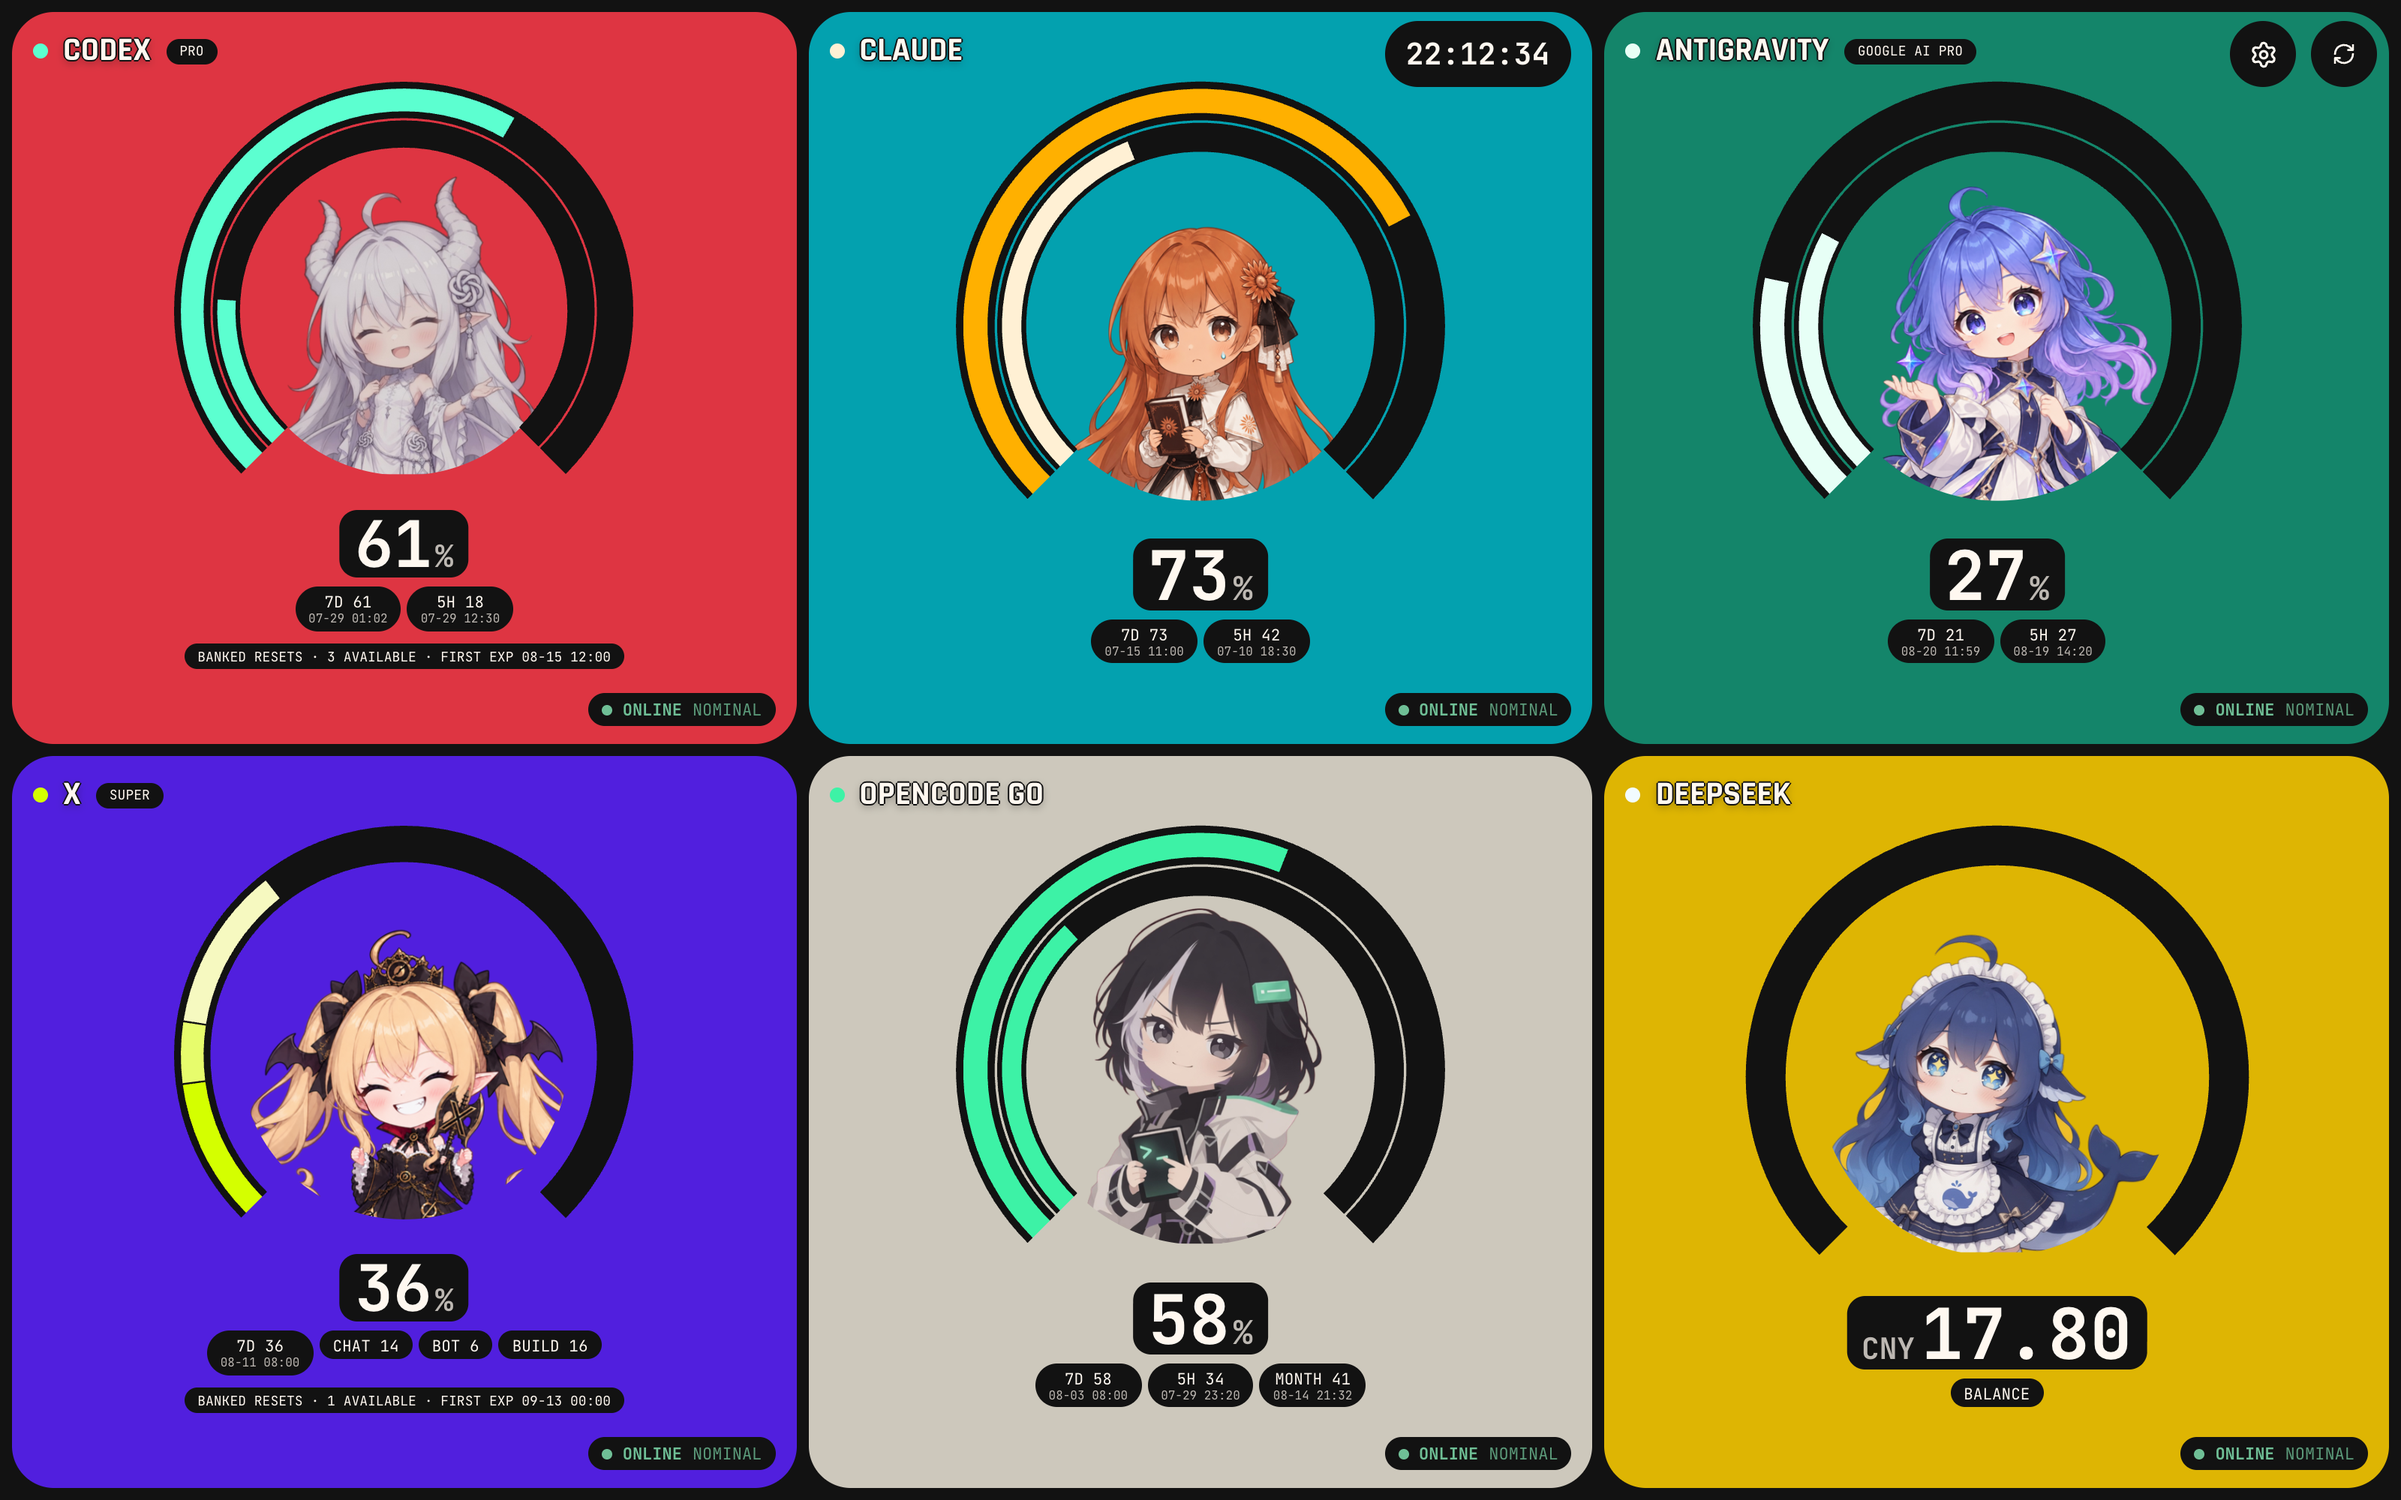
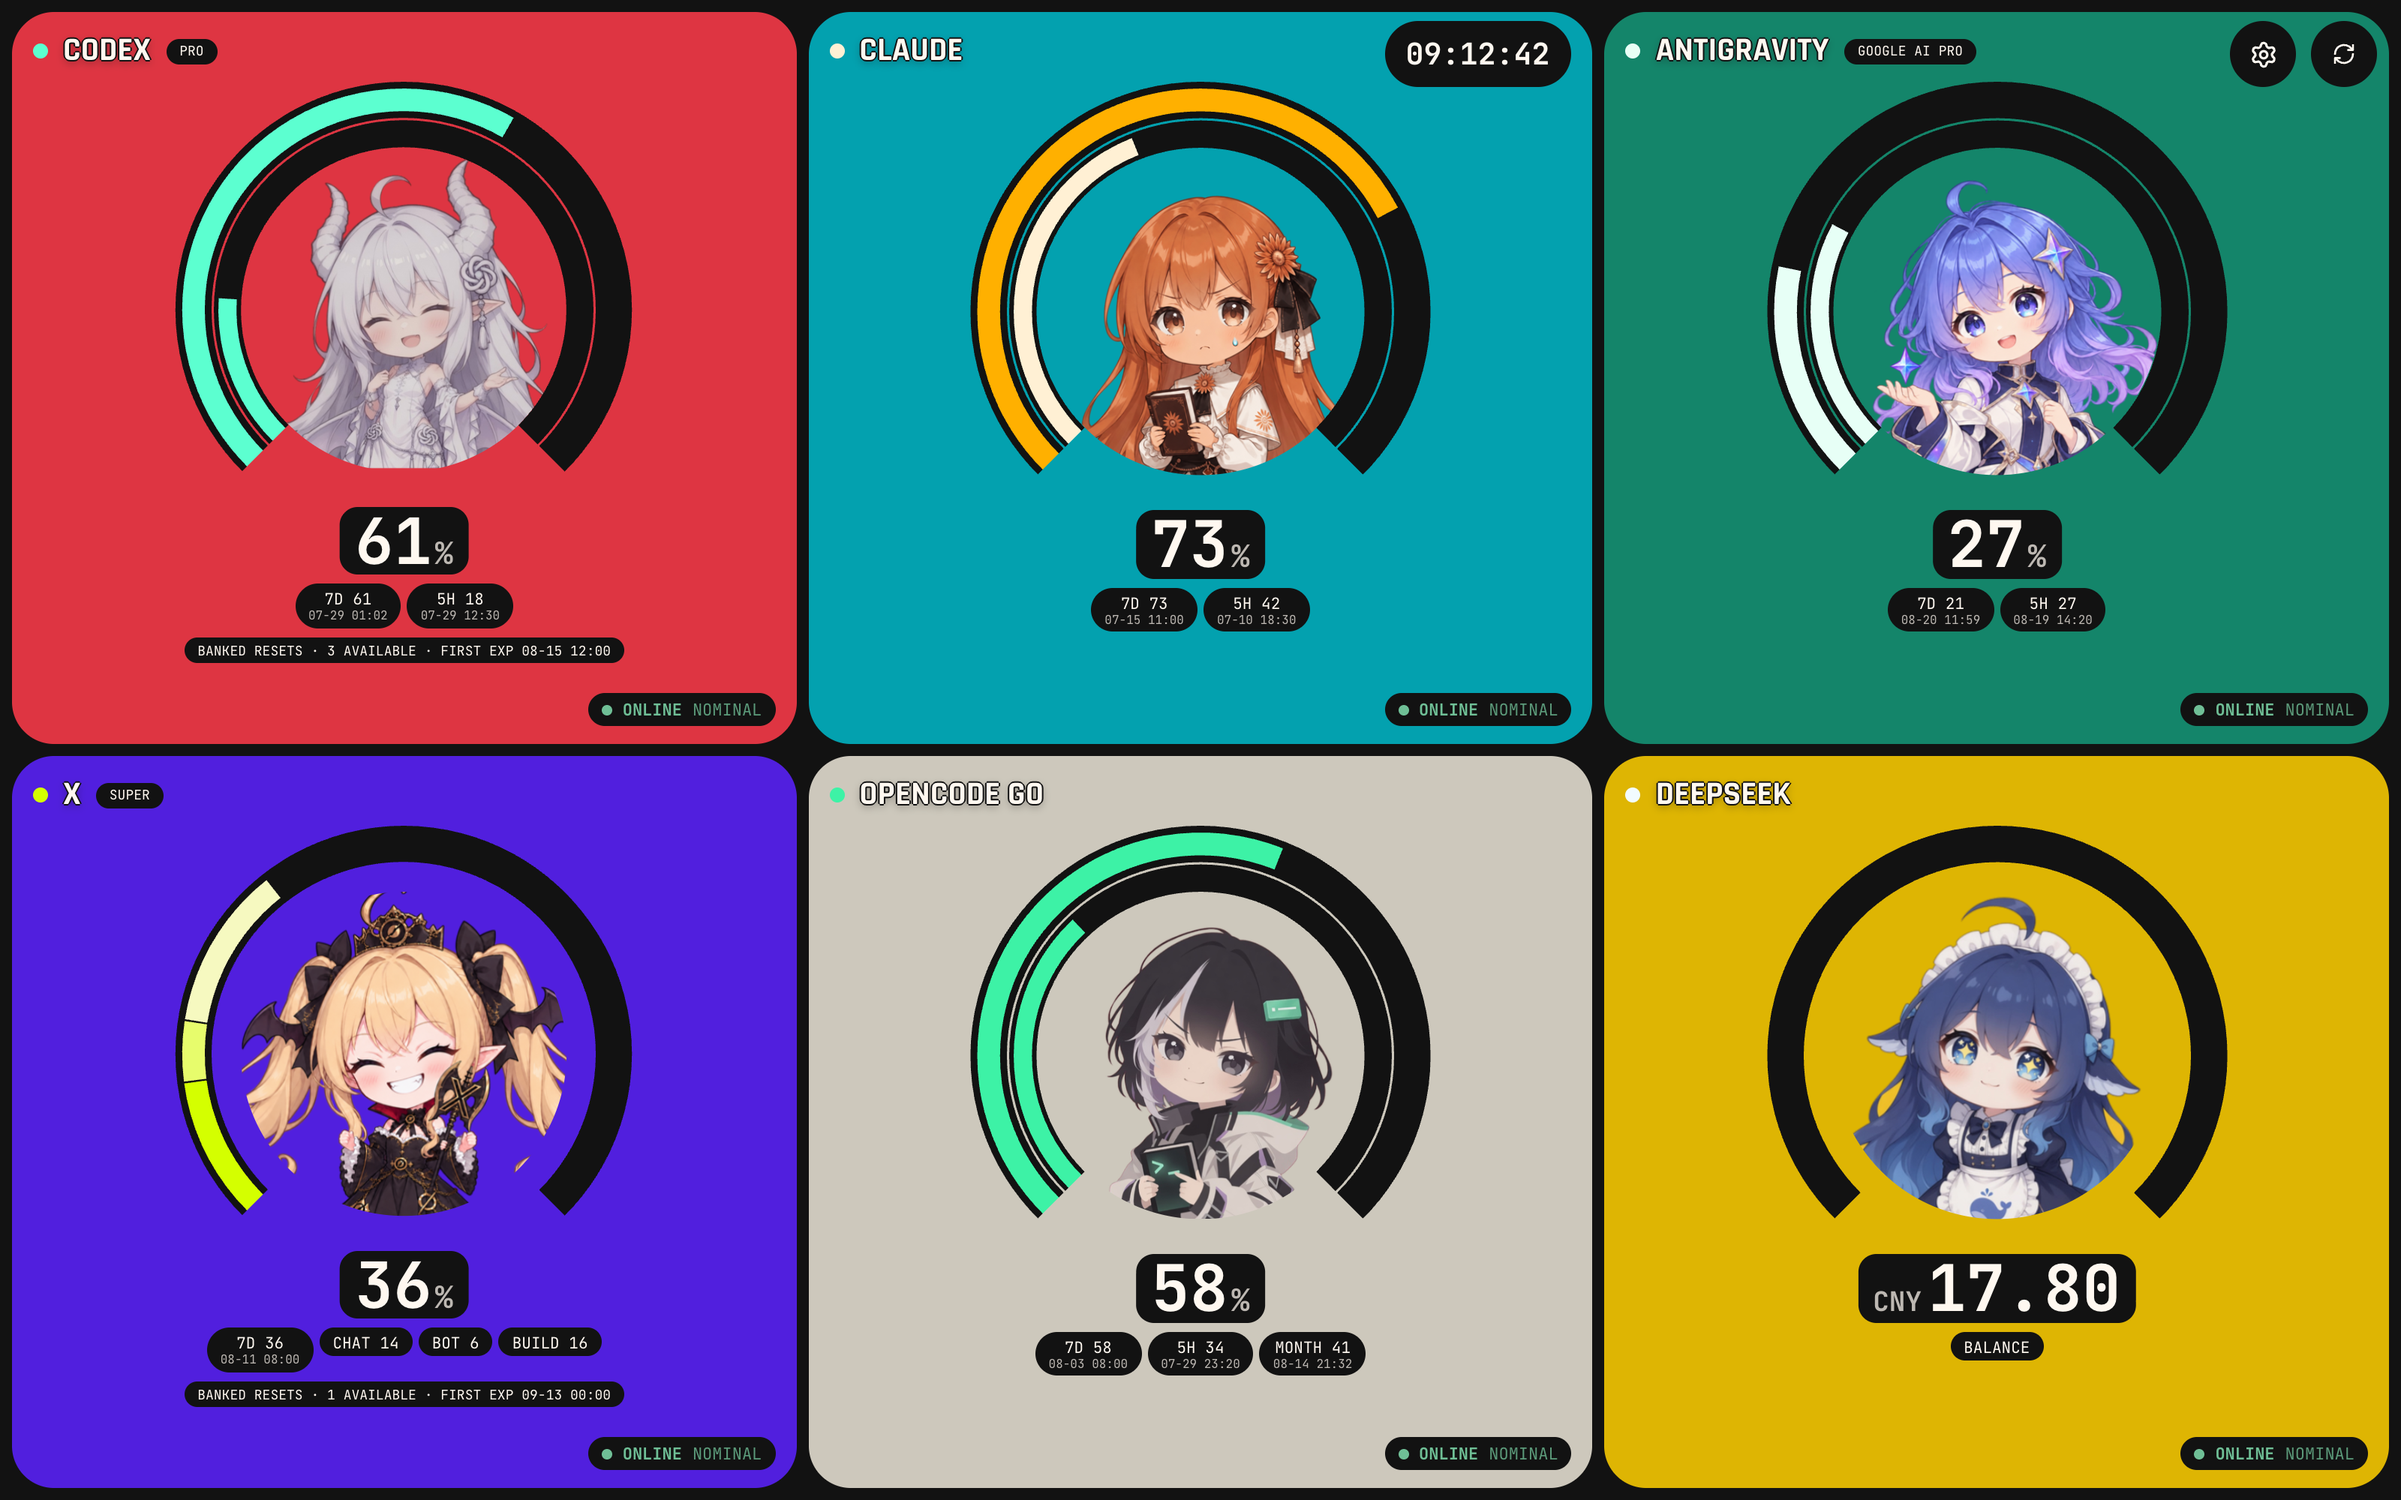
Keep Antigravity working without a Gemini group; even out ring cards
- Since 2026-10-16 the Antigravity quota summary can return only the
  "Claude and GPT models" group. A missing Gemini group no longer fails the
  card; the ring falls back to the Claude/GPT windows. Only a summary with
  no usable window is an error.
- IP ring cards reserve the same footer for the legend and banked resets,
  so rings in a row share one size. Antigravity's four grouped chips drop
  their dates to fit two rows.
- Normalise each ring sprite's scale and offset to a common eye spacing,
  eye line and centred face, measured from the idle sprites.

diff --git a/src/styles.css b/src/styles.css
@@ -630,6 +630,10 @@ body {
 .gauge-stage[data-mood="over"] .gauge-cap {
   animation: halo-pulse 1.8s ease-in-out infinite;
 }
+.gauge-foot {
+  /* Groups the legend and banked resets; only the IP ring gives it a box. */
+  display: contents;
+}
 .gauge-legend {
   max-width: 100%;
   font-family: var(--mono);
@@ -1729,15 +1733,39 @@ body {
   object-position: bottom center;
 }
 /* Position the artwork inside the fixed circular mask, without moving the ring. */
-.dashboard[data-art="ip"] .panel-antigravity .gauge-figure .panel-mascot {
-  translate: 0 8%;
+/* Every IP ring card reserves the same room under its ring (one row of dated
+   chips plus the banked-resets line), so rings in a row share one size no
+   matter how much each card lists. A grouped legend of four or more chips
+   (Antigravity's Gemini and Claude/GPT) drops its dates to fit two rows. */
+.dashboard[data-art="ip"] .panel[data-meter="ring"] .gauge-foot {
+  display: flex;
+  flex-direction: column;
+  align-items: center;
+  justify-content: flex-start;
+  gap: 2px;
+  min-height: 54px;
+  max-width: 100%;
 }
-.dashboard[data-art="ip"] .panel-grok .gauge-figure .panel-mascot,
-.dashboard[data-art="ip"] .panel-cursor .gauge-figure .panel-mascot {
-  /* Keep the sprite's straight waist edge below the circular crop. */
-  translate: 0 10%;
-  scale: 1.12;
+.dashboard[data-art="ip"] .panel[data-meter="ring"] .gauge-legend[data-compact="true"] .legend-reset {
+  display: none;
 }
+/* Ring sprites are drawn at different head sizes, heights and offsets.
+   Normalise each to the same eye spacing (104/512) and eye line (262/512),
+   with the face centred, while keeping the waist cut below the circle.
+   Measured from each idle sprite's pupils; moods share the same framing.
+   OpenCode Go's head is tilted, so its eye spacing overstates the head size;
+   its scale is set by eye instead. */
+.dashboard[data-art="ip"] .gauge-figure .panel-mascot {
+  scale: var(--ring-scale, 1);
+  translate: var(--ring-x, 0%) var(--ring-y, 0%);
+}
+.dashboard[data-art="ip"] .panel-codex { --ring-scale: 1.05; --ring-x: 3.3%; --ring-y: -3.3%; }
+.dashboard[data-art="ip"] .panel-claude { --ring-scale: 1.21; --ring-x: 2.4%; --ring-y: -1.2%; }
+.dashboard[data-art="ip"] .panel-grok,
+.dashboard[data-art="ip"] .panel-cursor { --ring-scale: 1.28; --ring-x: -1.3%; --ring-y: 3.2%; }
+.dashboard[data-art="ip"] .panel-deepseek { --ring-scale: 1.3; --ring-x: 11.7%; --ring-y: 3.2%; }
+.dashboard[data-art="ip"] .panel-antigravity { --ring-scale: 1.13; --ring-x: 0.2%; --ring-y: 14.0%; }
+.dashboard[data-art="ip"] .panel-opencodego { --ring-scale: 1.05; --ring-x: 3.3%; --ring-y: 9.4%; }
 .dashboard[data-art="ip"] .panel[data-emerge="left"] .panel-mascot {
   object-position: bottom left;
 }

diff --git a/src/components/ServicePanel.tsx b/src/components/ServicePanel.tsx
@@ -217,9 +217,10 @@ function windowsFor(kind: Kind, service: AnyService): {
         ...tag("GEMINI", [geminiSeven, geminiFive]),
         ...tag("CLAUDE · GPT", [claudeSeven, claudeFive]),
       ];
-      // The ring only draws Gemini (7D outside, 5H inside). Claude/GPT is
-      // listed in the legend under its group name, never on the ring.
-      const [outer, inner] = lanes.filter((win) => win.group === "GEMINI");
+      // The ring draws Gemini (7D outside, 5H inside) and lists Claude/GPT in
+      // the legend. Accounts whose summary has no Gemini group ring Claude/GPT.
+      const gemini = lanes.filter((win) => win.group === "GEMINI");
+      const [outer, inner] = gemini.length > 0 ? gemini : lanes;
       return {
         outer,
         inner,
@@ -512,7 +513,11 @@ export function ServicePanel({
             }
           />
         )}
-        <div className="gauge-legend">
+        <div className="gauge-foot">
+        <div
+          className="gauge-legend"
+          data-compact={legend.length >= 4 && legend.some((win) => win.group) ? "true" : undefined}
+        >
           {kind === "deepseek" ? (
             <span className="gauge-legend-item" data-window="BALANCE">
               {artSkin === "ip" ? "BALANCE" : "CURRENT BALANCE"}
@@ -551,6 +556,7 @@ export function ServicePanel({
             {service.resetCreditsExpireLocal ? ` · FIRST EXP ${service.resetCreditsExpireLocal}` : ""}
           </div>
         )}
+        </div>
       </div>
 
       <footer className="panel-status">

diff --git a/src-tauri/src/fetchers/antigravity.rs b/src-tauri/src/fetchers/antigravity.rs
@@ -213,20 +213,15 @@ pub(crate) fn parse_usage(body: &str) -> anyhow::Result<AntigravityService> {
                 .and_then(Value::as_array)
                 .is_some_and(|buckets| buckets.iter().any(bucket_is_gemini))
     });
-    let Some(gemini) = gemini else {
-        bail!("Antigravity quota summary has no Gemini group");
-    };
+    // Either group may be missing: since 2026-10-16 some accounts get only the
+    // Claude and GPT group from the summary. Fail only when neither has a window.
     let buckets = gemini
-        .get("buckets")
-        .and_then(Value::as_array)
-        .context("Gemini quota group has no buckets")?;
-
-    let five_hour = buckets.iter().find(|bucket| bucket_window(bucket, "5h"));
-    let weekly = buckets
-        .iter()
-        .find(|bucket| bucket_window(bucket, "weekly"));
-    // Claude (and GPT) models share a second quota group. It is optional:
-    // a missing group never fails the Gemini panel.
+        .and_then(|group| group.get("buckets"))
+        .and_then(Value::as_array);
+    let five_hour = buckets.and_then(|list| list.iter().find(|bucket| bucket_window(bucket, "5h")));
+    let weekly =
+        buckets.and_then(|list| list.iter().find(|bucket| bucket_window(bucket, "weekly")));
+    // Claude (and GPT) models share a second quota group.
     let claude_buckets = groups
         .iter()
         .find(|group| {
@@ -243,8 +238,18 @@ pub(crate) fn parse_usage(body: &str) -> anyhow::Result<AntigravityService> {
         claude_buckets.and_then(|list| list.iter().find(|bucket| bucket_window(bucket, "weekly")));
     let five_hour_percent = five_hour.and_then(used_percent);
     let seven_day_percent = weekly.and_then(used_percent);
-    if five_hour_percent.is_none() && seven_day_percent.is_none() {
-        bail!("Gemini quota group has no usable usage windows");
+    let claude_five_hour_percent = claude_five_hour.and_then(used_percent);
+    let claude_seven_day_percent = claude_weekly.and_then(used_percent);
+    if [
+        five_hour_percent,
+        seven_day_percent,
+        claude_five_hour_percent,
+        claude_seven_day_percent,
+    ]
+    .iter()
+    .all(Option::is_none)
+    {
+        bail!("Antigravity quota summary has no usable usage windows");
     }
 
     Ok(AntigravityService {
@@ -260,8 +265,8 @@ pub(crate) fn parse_usage(body: &str) -> anyhow::Result<AntigravityService> {
         seven_day_reset_local: weekly
             .and_then(|bucket| bucket.get("resetTime"))
             .and_then(local_label),
-        claude_five_hour_percent: claude_five_hour.and_then(used_percent),
-        claude_seven_day_percent: claude_weekly.and_then(used_percent),
+        claude_five_hour_percent,
+        claude_seven_day_percent,
         claude_five_hour_reset_local: claude_five_hour
             .and_then(|bucket| bucket.get("resetTime"))
             .and_then(local_label),
@@ -1236,6 +1241,23 @@ mod tests {
         .expect("Gemini-only quota");
         assert_eq!(service.seven_day_percent, Some(50.0));
         assert_eq!(service.claude_seven_day_percent, None);
+    }
+
+    #[test]
+    fn claude_only_summary_still_parses() {
+        // Live shape from 2026-10-16: the Gemini group is gone from the summary.
+        let service = parse_usage(
+            r#"{"groups":[{"displayName":"Claude and GPT models","buckets":[
+                {"bucketId":"3p-weekly","window":"weekly","remainingFraction":0.553582,
+                 "resetTime":"2026-10-20T14:51:38Z"},
+                {"bucketId":"3p-5h","window":"5h","remainingFraction":1,
+                 "resetTime":"2026-10-16T06:02:39Z"}]}]}"#,
+        )
+        .expect("claude-only summary");
+        assert_eq!(service.five_hour_percent, None);
+        assert_eq!(service.seven_day_percent, None);
+        assert_eq!(service.claude_seven_day_percent.map(f64::round), Some(45.0));
+        assert_eq!(service.claude_five_hour_percent, Some(0.0));
     }
 
     #[test]
